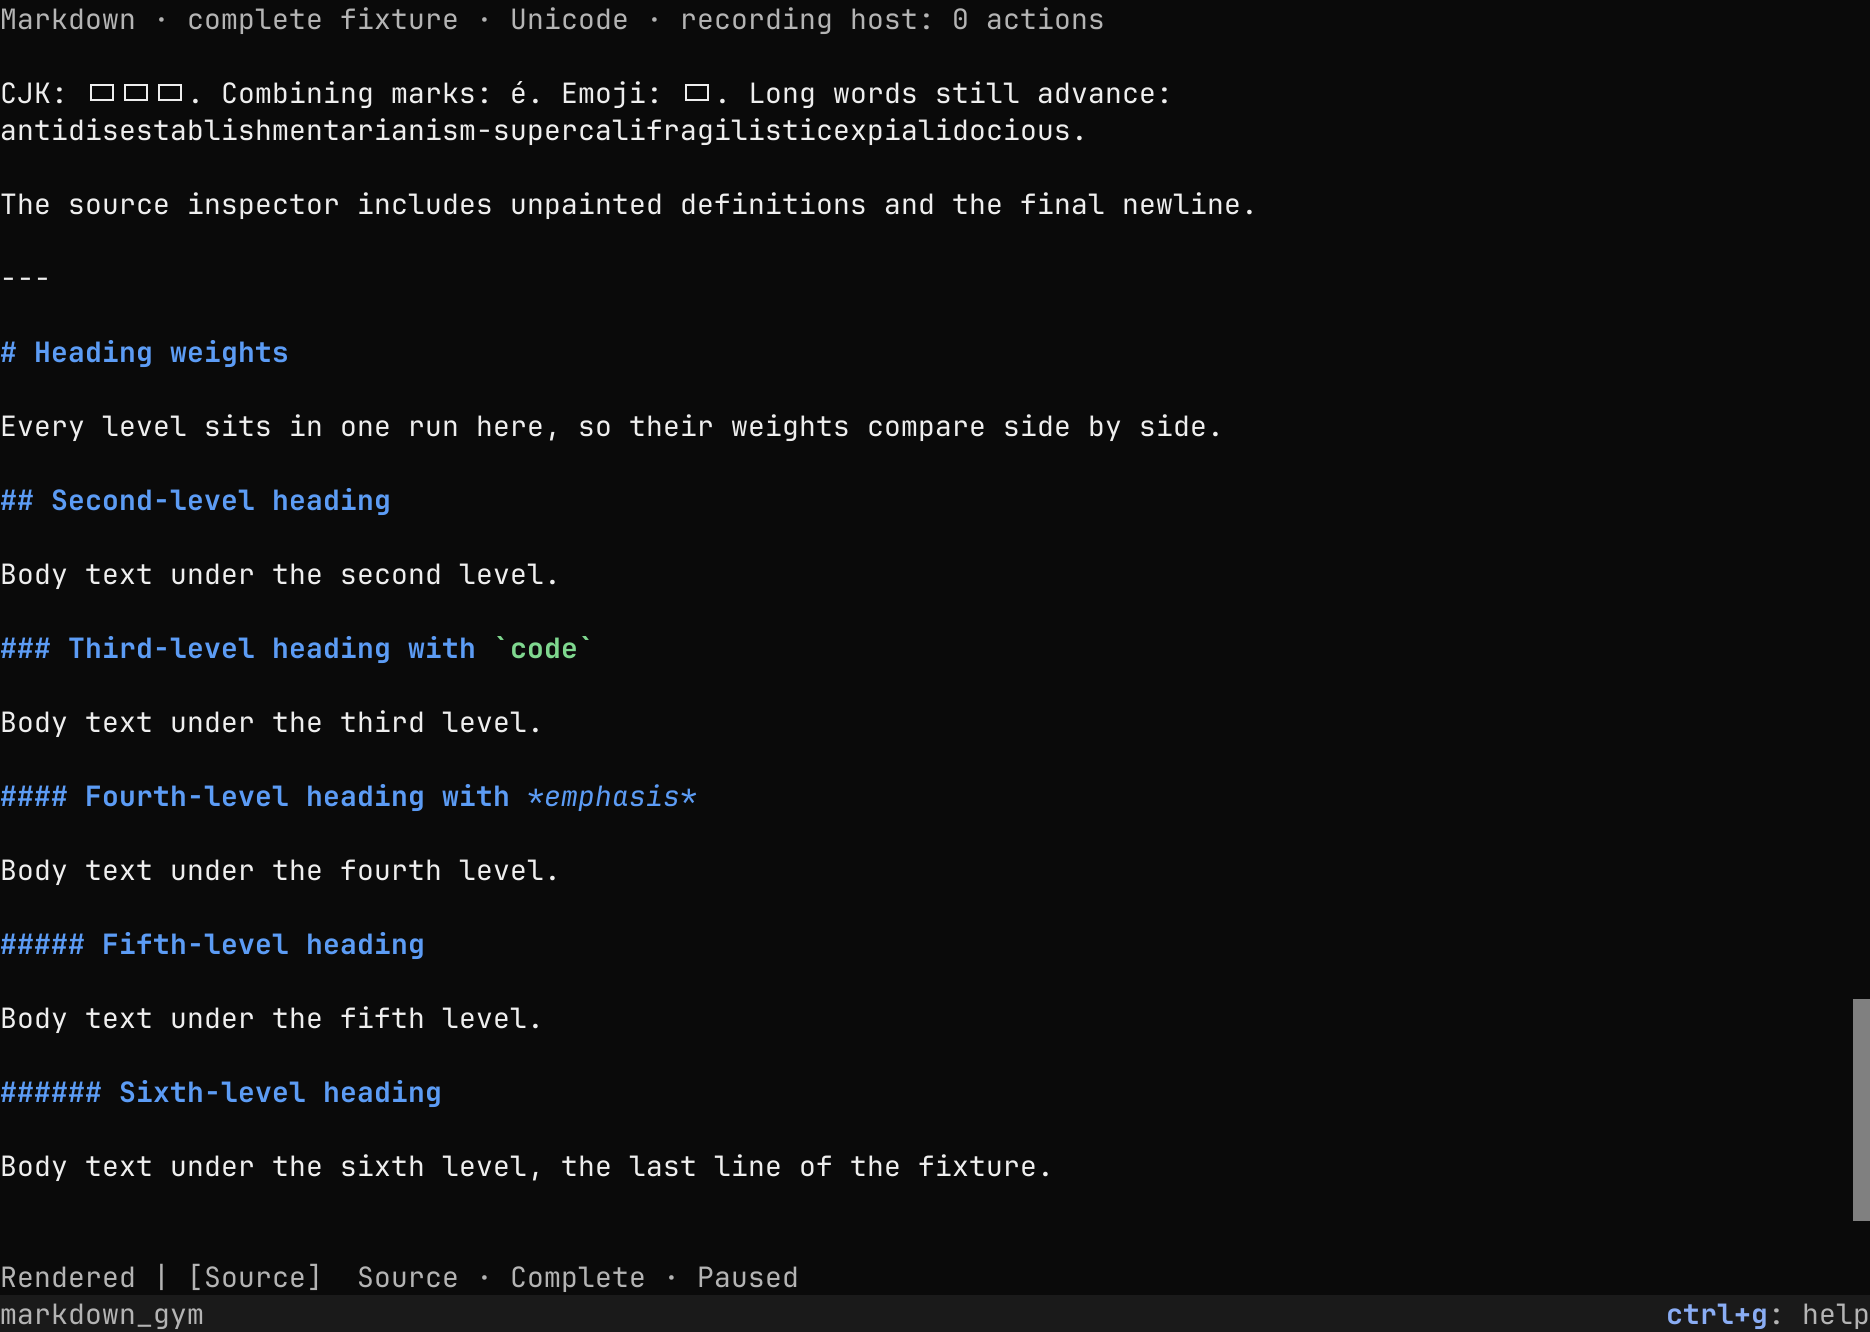
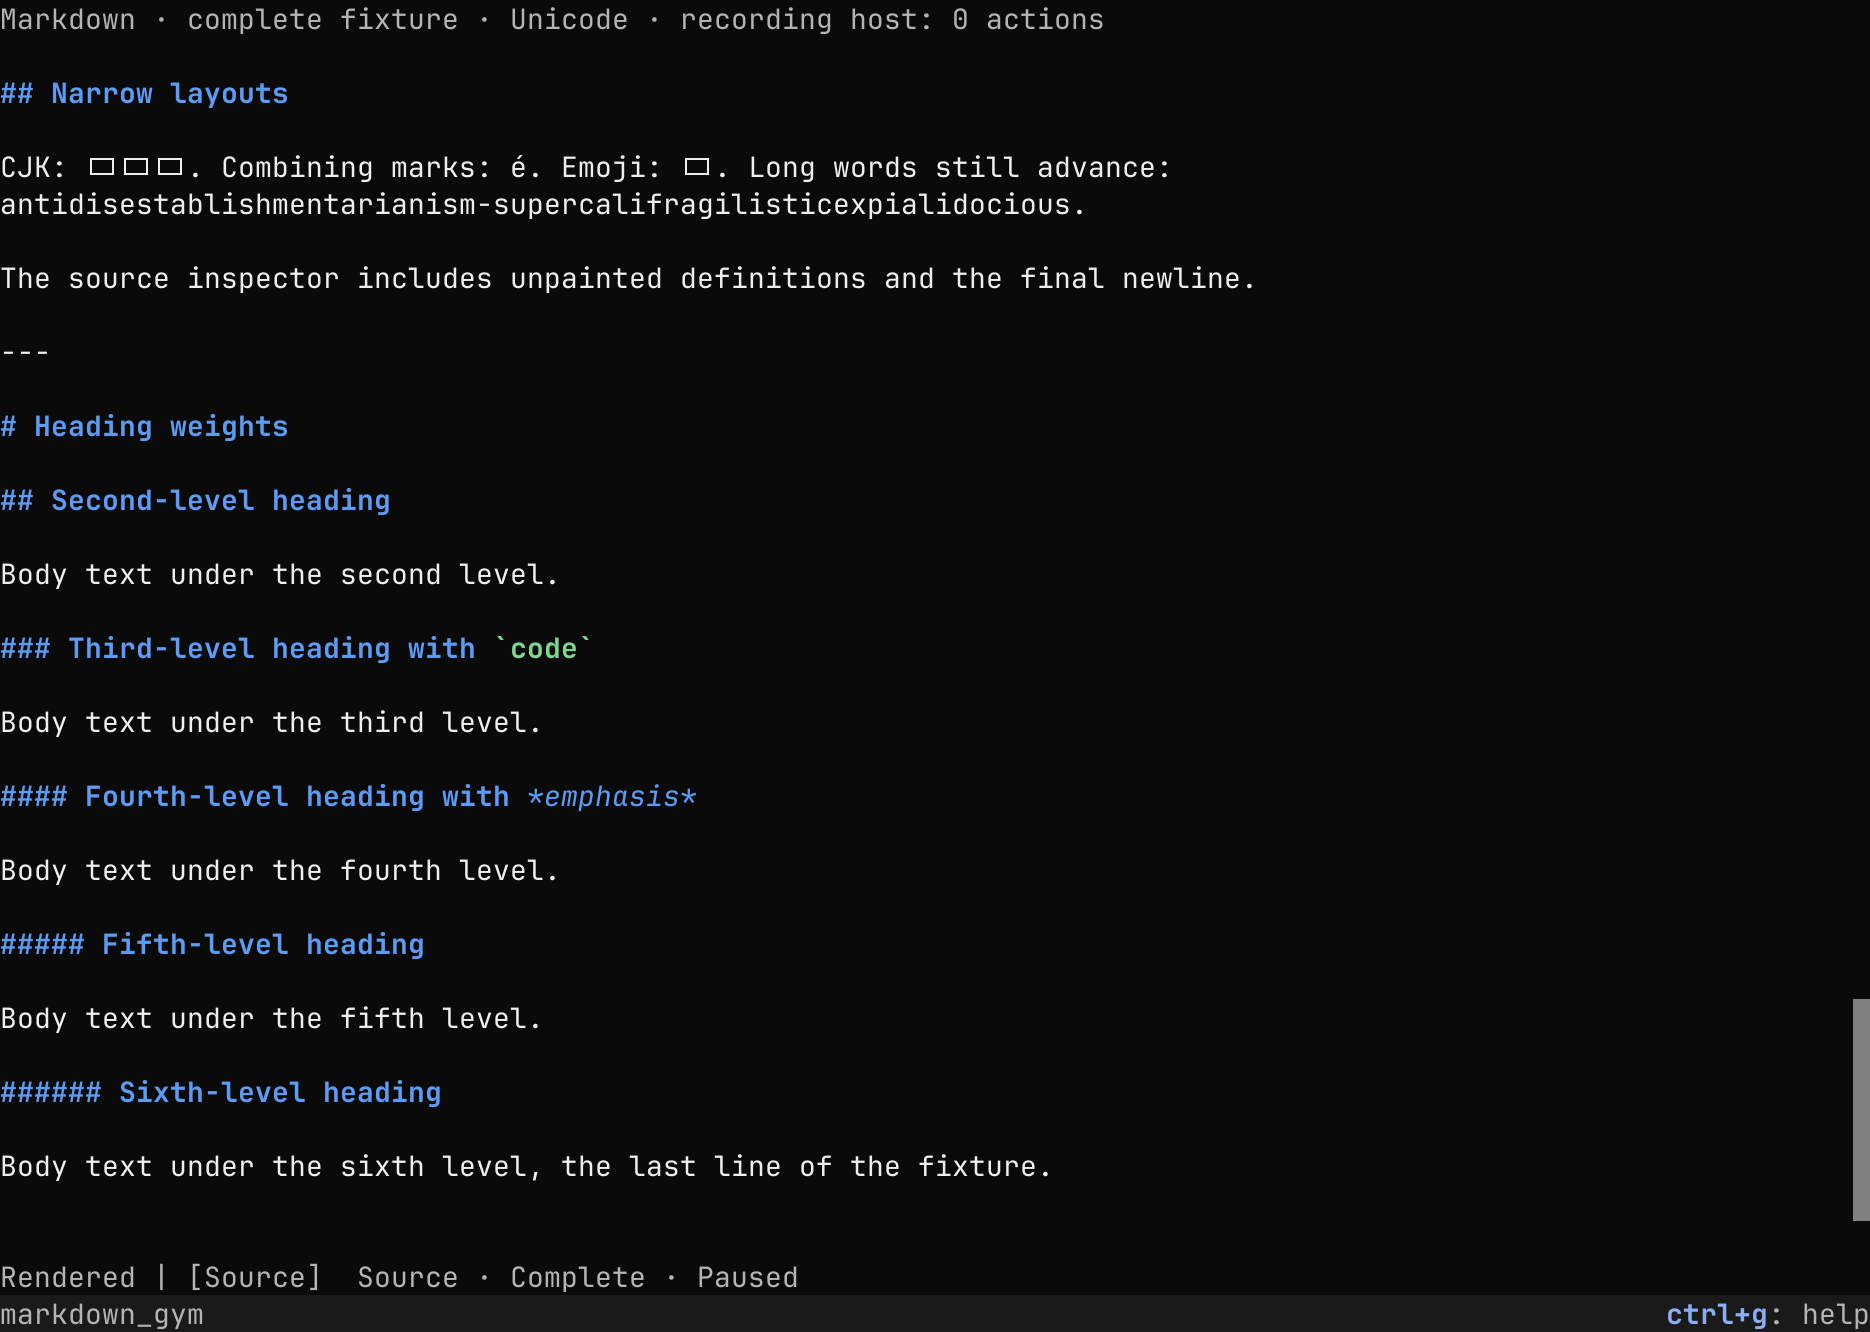
Draw first-level Markdown headings in big text
A first-level heading that fits the reading width now draws in the
smallest big text face, without markers: two rows of octants where the
terminal draws them, else four of half blocks. ASCII and headings too wide
for the view keep the text heading. Each big row reads as the whole
heading, so reading positions, search, and selection still mark it.

The reader takes the terminal's mosaic tier from its glyphs as it renders,
and `GeometryKey` carries it, so a change of glyphs prepares the layout
again. Tests that looked for a title's text on screen look for body text.

diff --git a/docs/gallery/index.html b/docs/gallery/index.html
@@ -346,7 +346,7 @@
 <script>
 const GALLERY = {
   "title": "Canopy widgets",
-  "generated": 1792294235,
+  "generated": 1792294995,
   "font_size": 14.0,
   "scale": 2.0,
   "sizes": [

diff --git a/crates/canopy-markdown/src/presentation/mod.rs b/crates/canopy-markdown/src/presentation/mod.rs
@@ -11,7 +11,7 @@ use std::{
 
 use canopy::{
     error::Result,
-    geom::{Point, Rect},
+    geom::{Point, Rect, Size},
     render::Render,
     style::{Attr, AttrSet, Mix, Paint, PartialStyle, StyleMap, StyleRules, themes::Palette},
     text,
@@ -19,7 +19,9 @@ use canopy::{
 #[cfg(feature = "syntax")]
 use canopy_widgets::highlight::Grammar;
 use canopy_widgets::{
+    BigFace, BigSize, BigText,
     highlight::{SpanStyle, palette_style_rules},
+    mosaic::Tier,
     table::{
         self, FlowOptions, FlowTable, PreparedTable, TableAlignment, TableCell, TableColumn,
         TableData, TableGlyphs, TableLayoutOptions, TableRow, TableSelection, TableWindow,
@@ -40,6 +42,9 @@ const MAX_PREPARED_ROWS: usize = 262_144;
 const OBJECT_TINT: f32 = 0.25;
 /// Every readable byte of a unit, for whole-unit overlay tests.
 const WHOLE_UNIT: Range<usize> = 0..usize::MAX;
+/// Rows of the area that a big heading lays out in, more than any face of
+/// the smallest size takes.
+const BIG_HEADING_ROWS: u32 = 8;
 /// How far each heading level mixes the heading hue toward the ground.
 const HEADING_STEP: f32 = 0.08;
 /// How much further a heading's markers and underline mix toward the ground.
@@ -116,6 +121,8 @@ pub struct GeometryKey {
     pub prose_width: u32,
     /// Cumulative eligible code-payload bytes admitted for automatic syntax.
     pub syntax_limit: usize,
+    /// Block mosaics that the terminal draws, which big headings draw with.
+    pub mosaic: Tier,
 }
 impl Default for GeometryKey {
     fn default() -> Self {
@@ -125,6 +132,7 @@ impl Default for GeometryKey {
             spacing: 1,
             prose_width: 88,
             syntax_limit: 256 * 1024,
+            mosaic: Tier::Full,
         }
     }
 }
@@ -875,6 +883,26 @@ fn signature(
     hash.finish()
 }
 
+/// Return the rows that draw `text` in the smallest big text face, or none
+/// when it is wider than `width`. Terminals with octants draw it two rows
+/// high; others draw it in half blocks, four rows high with descenders.
+fn big_heading(text: &str, width: u32, mosaic: Tier) -> Option<Vec<String>> {
+    let size = if mosaic == Tier::Full {
+        BigSize::MaxRows(2)
+    } else {
+        BigSize::Exact {
+            face: BigFace::Compact,
+            scale: 1,
+        }
+    };
+    let rows = BigText::new(text)
+        .with_size(size)
+        .with_tier(mosaic)
+        .rows_in(Size::new(width, BIG_HEADING_ROWS));
+    let fits = !rows.is_empty() && rows.iter().all(|row| text::width(row) <= width);
+    fits.then_some(rows)
+}
+
 /// Prepare bounded display rows and any shared table preview. A `leading`
 /// block opens the document.
 fn prepare_block(
@@ -1114,20 +1142,49 @@ fn prepare_block(
             }
             let prose = body.min(geometry.prose_width.clamp(1, 65535));
             let text_start = rows.len();
-            wrap(
-                &mut rows,
-                make_row,
-                &unit.text,
-                &prefix,
-                unit,
-                TextLayout {
-                    inset,
-                    budget: prose,
-                    role,
-                    glyphs: geometry.glyphs,
-                },
-                &INLINE_ROLES[level.unwrap_or(0)],
-            );
+            // A first-level heading that fits draws in big text, without
+            // markers. Each row reads as the whole heading, so a reading
+            // position, search match, or selection in it marks the title.
+            let big = (level == Some(1) && geometry.glyphs == GlyphPreset::Unicode)
+                .then(|| {
+                    big_heading(
+                        &unit.text,
+                        prose.saturating_sub(card_inset - inset),
+                        geometry.mosaic,
+                    )
+                })
+                .flatten();
+            if let Some(lines) = &big {
+                for line in lines {
+                    let mut row = make_row();
+                    rail(&mut row, &rails, inset, body, geometry.glyphs);
+                    add(
+                        &mut row,
+                        card_inset,
+                        line.clone(),
+                        Some(0..unit.text.len()),
+                        "markdown/h1",
+                        None,
+                        None,
+                    );
+                    rows.push(row);
+                }
+            } else {
+                wrap(
+                    &mut rows,
+                    make_row,
+                    &unit.text,
+                    &prefix,
+                    unit,
+                    TextLayout {
+                        inset,
+                        budget: prose,
+                        role,
+                        glyphs: geometry.glyphs,
+                    },
+                    &INLINE_ROLES[level.unwrap_or(0)],
+                );
+            }
             // The top three levels are underlined, lighter at each level, from
             // the markers to the end of the widest line. ASCII starts from
             // Setext's `=` and `-`.
@@ -1144,7 +1201,7 @@ fn prepare_block(
                 let end = rows[text_start..]
                     .iter()
                     .flat_map(|row| row.runs.iter())
-                    .map(|run| run.x + text::width(run.text.trim_end()) as u32)
+                    .map(|run| run.x + text::width(run.text.trim_end()))
                     .max()
                     .unwrap_or(card_inset);
                 let width = end.saturating_sub(card_inset);

diff --git a/crates/canopy-markdown/src/presentation/tests.rs b/crates/canopy-markdown/src/presentation/tests.rs
@@ -45,18 +45,17 @@ fn heading_inline_roles_link_hits_and_copy_have_independent_expected_values() {
         "# Title\n\nalpha **bold** [site](https://example.com)\n",
         40,
     );
-    assert_eq!(row_text(&p, 0), "# Title");
-    // The underline runs from the marker to the end of the text.
-    assert_eq!(row_text(&p, 1), "━".repeat(7));
-    assert_eq!(row_text(&p, 2), "alpha bold site");
+    // The title draws in two rows of big text, then its underline.
+    assert!(row_text(&p, 2).chars().all(|c| c == '━'));
+    assert_eq!(row_text(&p, 3), "alpha bold site");
     assert!(
-        p.row(2)
+        p.row(3)
             .unwrap()
             .runs
             .iter()
             .any(|r| r.role == "markdown/strong" && r.text == "bold")
     );
-    let hit = p.hit(Point { x: 13, y: 2 }).unwrap();
+    let hit = p.hit(Point { x: 13, y: 3 }).unwrap();
     assert!(hit.object.is_some());
     assert_eq!(
         hit.reading,
@@ -238,12 +237,52 @@ fn headings_show_markers_and_underline_the_top_three_levels() {
 }
 
 #[test]
+fn a_first_level_heading_draws_in_big_text_that_reads_as_the_heading() {
+    let big = |text: &str, width: u32, mosaic: Tier, glyphs: GlyphPreset| {
+        PresentationSnapshot::prepare(
+            document(text),
+            GeometryKey {
+                width,
+                spacing: 0,
+                mosaic,
+                glyphs,
+                ..Default::default()
+            },
+            None,
+        )
+    };
+    // Octants draw the title in two rows; every one reads as the heading.
+    let p = big("# Title\n", 40, Tier::Full, GlyphPreset::Unicode);
+    for row in 0..2 {
+        let runs = &p.row(row).unwrap().runs;
+        assert_eq!(runs.len(), 1);
+        assert_eq!(runs[0].reading, Some(0..5));
+        assert!(!runs[0].text.contains("Title"));
+    }
+    assert!(row_text(&p, 2).chars().all(|c| c == '━'));
+    assert_eq!(p.row_for_unit(p.document.units[0].id, 3), 0);
+    // Half blocks take more rows.
+    let p = big("# Title\n", 40, Tier::Blocks, GlyphPreset::Unicode);
+    assert!(
+        row_text(&p, 2)
+            .chars()
+            .all(|c| matches!(c, '▀' | '▄' | '█' | ' '))
+    );
+    // A title too wide for the view, and ASCII, keep the text heading.
+    let wide = format!("# {}\n", "Wide ".repeat(12));
+    let p = big(&wide, 40, Tier::Full, GlyphPreset::Unicode);
+    assert!(row_text(&p, 0).starts_with("# Wide"));
+    let p = big("# Title\n", 40, Tier::Full, GlyphPreset::Ascii);
+    assert_eq!(row_text(&p, 0), "# Title");
+}
+
+#[test]
 fn a_wrapped_heading_hangs_under_its_text_and_is_underlined_to_its_widest_line() {
-    let p = prepared("# alphabet beta gamma\n", 18);
-    assert_eq!(row_text(&p, 0).trim_end(), "# alphabet beta");
-    assert_eq!(row_text(&p, 1), "  gamma");
+    let p = prepared("## alphabet beta gamma\n", 19);
+    assert_eq!(row_text(&p, 0).trim_end(), "## alphabet beta");
+    assert_eq!(row_text(&p, 1), "   gamma");
     // The trailing space of the wrapped line is not underlined.
-    assert_eq!(row_text(&p, 2), "━".repeat(15));
+    assert_eq!(row_text(&p, 2), "─".repeat(16));
 }
 
 #[test]

diff --git a/crates/canopy-markdown/src/widget/mod.rs b/crates/canopy-markdown/src/widget/mod.rs
@@ -28,6 +28,7 @@ use canopy_widgets::{
     Container, SearchBar, TableView,
     editor::{Editor, LineNumbers, WrapMode},
     highlight::palette_style_rules,
+    mosaic::{Tier, tier_for},
     scrollbar::Scrollbar,
     table::{self, CellKey, PreparedTable, TableLayoutOptions},
 };
@@ -147,6 +148,8 @@ pub struct Markdown {
     generation: u64,
     /// Latest allocated body width observed during render.
     geometry_width: u32,
+    /// Block mosaics of the terminal's glyphs, observed during render.
+    mosaic: Tier,
     /// Identity of the most recent admitted replaceable request.
     last_submitted: Option<(u64, u64, ViewType, GeometryKey, u64, u64)>,
     /// Retained query and explicit matching policy.
@@ -256,6 +259,7 @@ impl Markdown {
             deadline: None,
             generation: 1,
             geometry_width: 0,
+            mosaic: Tier::Full,
             last_submitted: None,
             query: SearchQuery::default(),
             query_generation: 0,
@@ -1436,6 +1440,7 @@ impl Markdown {
             glyphs: self.options.glyphs,
             prose_width: self.options.prose_width,
             syntax_limit: self.options.syntax_limit,
+            mosaic: self.mosaic,
             ..Default::default()
         }
     }
@@ -1963,8 +1968,10 @@ impl Widget for Markdown {
         render.fill("markdown", ctx.view().outer_rect_local(), ' ')?;
         if let Some(nodes) = &self.nodes {
             let width = ctx.view_of(nodes.body).map_or(0, |v| v.content.w);
-            if width != self.geometry_width {
+            let mosaic = tier_for(render.glyphs());
+            if width != self.geometry_width || mosaic != self.mosaic {
                 self.geometry_width = width;
+                self.mosaic = mosaic;
                 self.generation += 1;
                 self.dirty = true;
                 self.last_submitted = None;

diff --git a/api/canopy-markdown.rs b/api/canopy-markdown.rs
@@ -31,6 +31,7 @@ use canopy::{
     style::{StyleMap, StyleRules, themes::Palette},
 };
 use canopy_widgets::{
+    Tier,
     editor::{LineNumbers, TextPosition, TextRange, WrapMode},
     table::PreparedTable,
 };
@@ -1538,6 +1539,8 @@ pub mod presentation {
         pub prose_width: u32,
         /// Cumulative eligible code-payload bytes admitted for automatic syntax.
         pub syntax_limit: usize,
+        /// Block mosaics that the terminal draws, which big headings draw with.
+        pub mosaic: Tier,
     }
 
     /// Decorations are geometry, so changing this preset requires preparation.

diff --git a/examples/gyms/src/tests/markdown.rs b/examples/gyms/src/tests/markdown.rs
@@ -154,7 +154,7 @@ fn fixture_contains_release_acceptance_cases_and_tiny_viewports_settle() -> Resu
             ready(&mut h)?;
         }
     }
-    assert!(h.tbuf().contains_text("Field notes"));
+    assert!(h.tbuf().contains_text("A reader for"));
     Ok(())
 }
 

diff --git a/plans/markdown.md b/plans/markdown.md
@@ -339,7 +339,10 @@ Keep prose left aligned. Tables and code cards may use the full body width. Rese
 scrollbar gutter from the start so its appearance cannot change wrapping. The status strip
 and search prompt sit outside the document canvas.
 
-Headings are ordinary terminal text led by their `#` markers, and every level is bold in
+A first-level heading that fits the reading width draws in the smallest big text face,
+without markers: two rows of octants where the terminal draws them, else half blocks. Each
+of its rows reads as the whole heading, so positions, search, and selection mark the title.
+Other headings are ordinary terminal text led by their `#` markers, and every level is bold in
 one hue, the palette's orange, which no other document element uses. Each level below the
 first mixes that hue a step toward the ground. Markers and underlines are quieter than the
 text. H1, H2, and H3 are underlined from the marker to the end of the widest line, with `━`,

diff --git a/examples/gyms/fixtures/markdown.md b/examples/gyms/fixtures/markdown.md
@@ -137,8 +137,6 @@ The source inspector includes unpainted definitions and the final newline.
 
 # Heading weights
 
-Every level sits in one run here, so their weights compare side by side.
-
 ## Second-level heading
 
 Body text under the second level.
